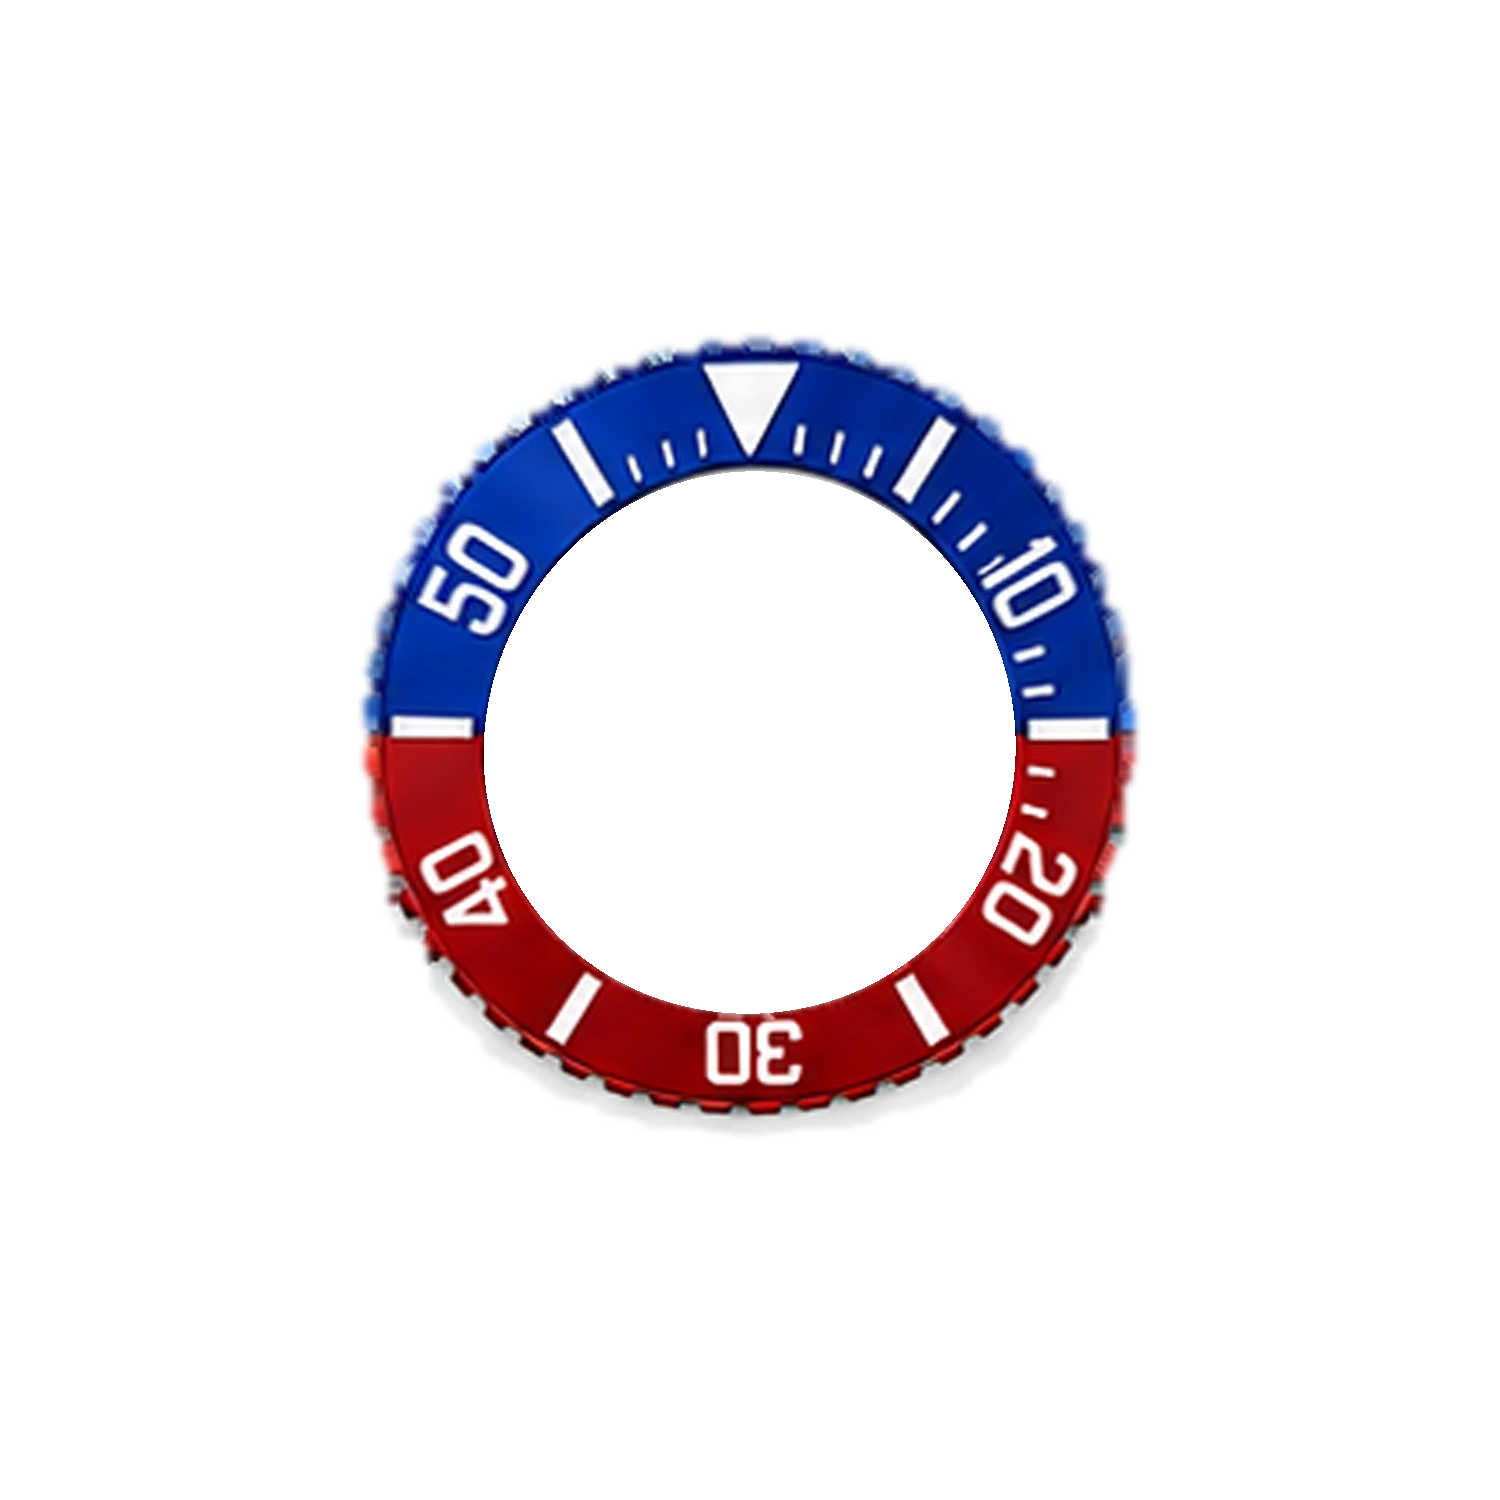
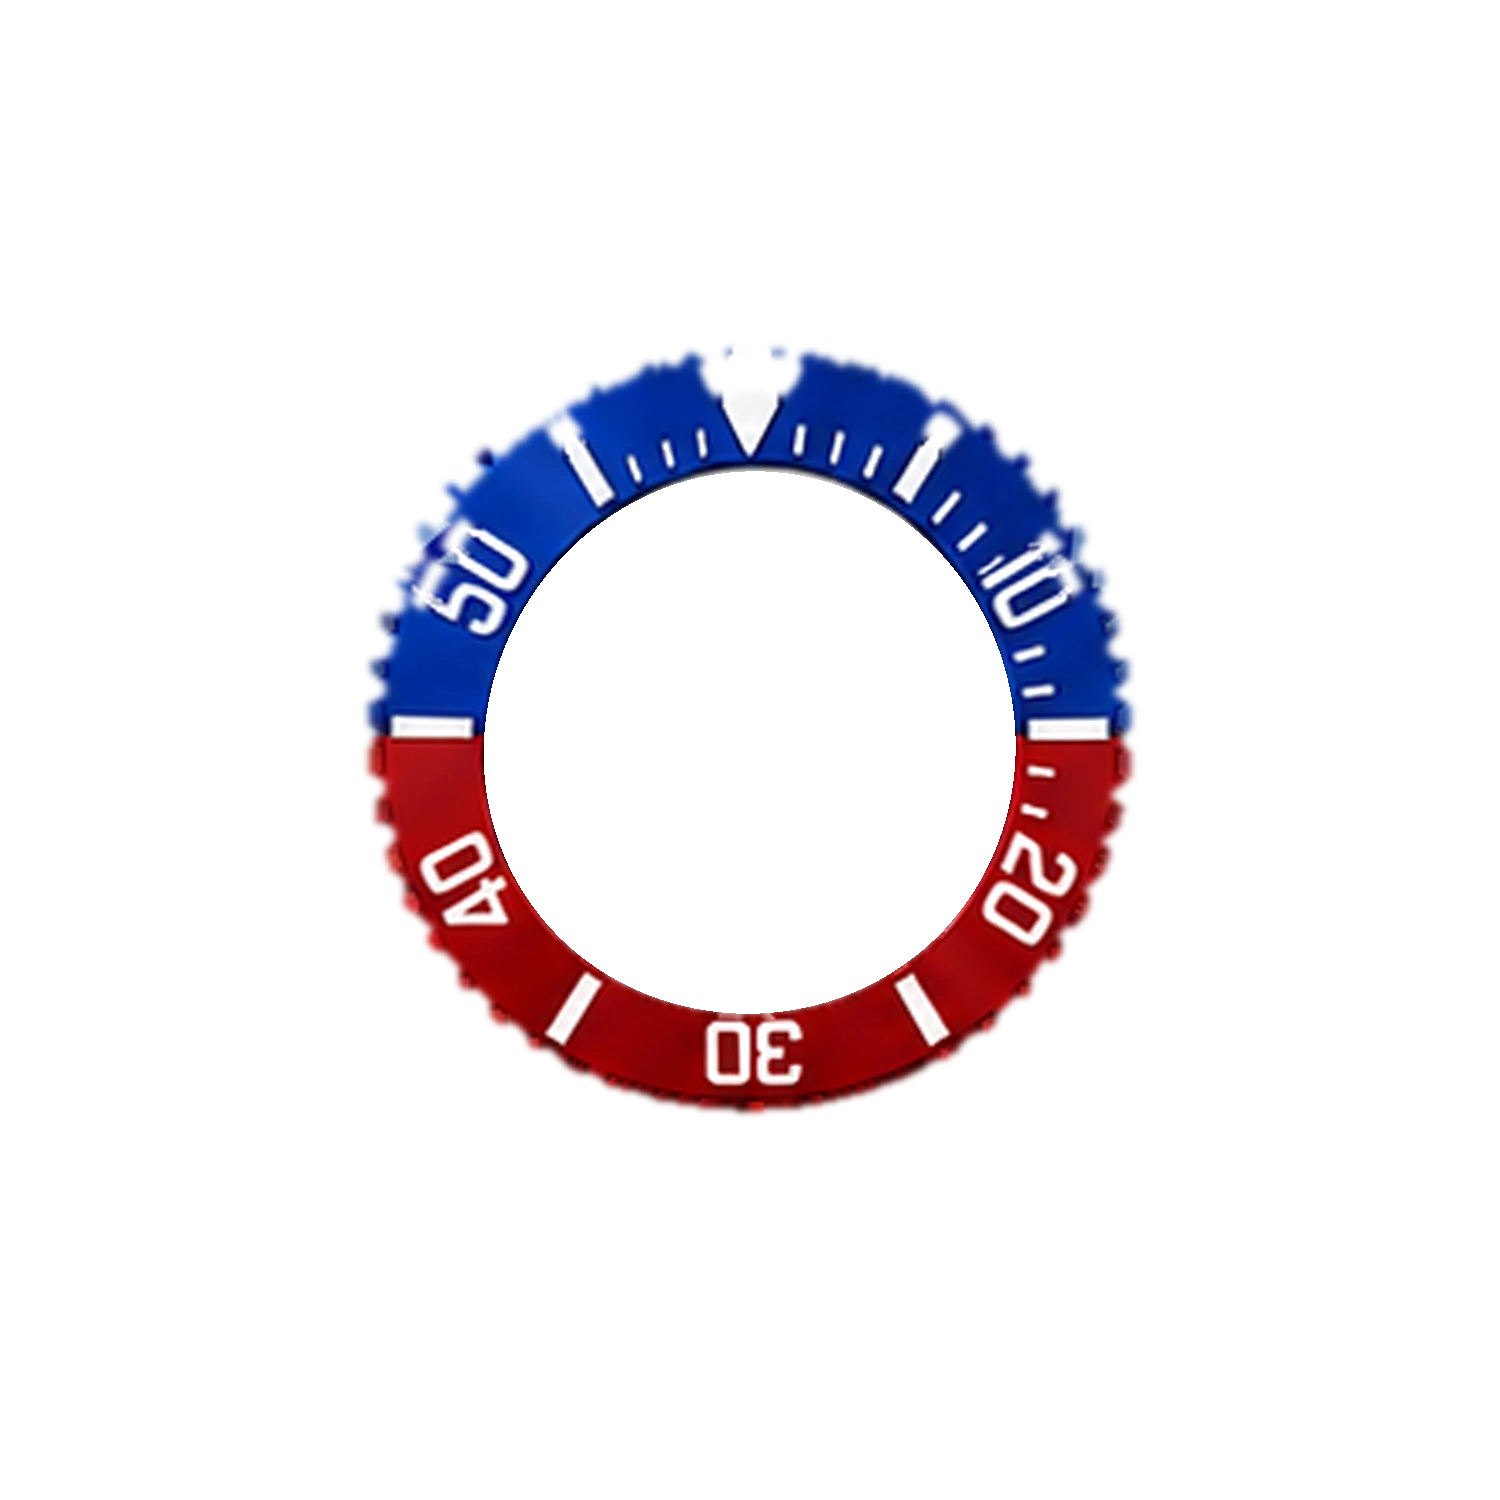
Builder: fingerprint every picture URL (server caches images 30 days, immutable) so updated pictures always load; Saturation bezels: remove drop-shadow fringe

diff --git a/scripts/build-gallery.js b/scripts/build-gallery.js
@@ -57,6 +57,8 @@ function walk(dir) {
   const BUILDS = path.join(ROOT, 'images', 'builds');
   const regPath = path.join(BUILDS, 'registry.json'), famPath = path.join(BUILDS, 'families.json');
   if (!fs.existsSync(regPath) || !fs.existsSync(famPath)) return;
+  const crypto = require('crypto');
+  const vq = rel => { try { return '?v=' + crypto.createHash('md5').update(fs.readFileSync(path.join(ROOT, rel))).digest('hex').slice(0, 10); } catch (e) { return ''; } };   // changes only when the picture changes
   const GEN = path.join(BUILDS, '_generated');
   fs.rmSync(GEN, { recursive: true, force: true });
   const registry = JSON.parse(fs.readFileSync(regPath, 'utf8'));
@@ -79,7 +81,7 @@ function walk(dir) {
       const dir = path.join(GEN, p.cat); fs.mkdirSync(dir, { recursive: true });
       let img = sharp(src); if (CROPS[p.cat]) img = img.extract(CROPS[p.cat]);
       await img.resize({ width: 220 }).webp({ quality: 85, alphaQuality: 100 }).toFile(path.join(dir, p.id + '.thumb.webp'));
-      made[p.cat + '/' + p.id] = `images/builds/_generated/${p.cat}/${p.id}.thumb.webp`; count++;
+      { const rel = `images/builds/_generated/${p.cat}/${p.id}.thumb.webp`; made[p.cat + '/' + p.id] = rel + vq(rel); } count++;
     } catch (e) { console.warn('Part skipped:', p.id, e.message); made[p.cat + '/' + p.id] = null; }
   }
   const out = { families: {}, pending: {} };
@@ -89,10 +91,10 @@ function walk(dir) {
       // dials are matched by SIZE (a case only takes dials of its dial size); everything else by the family list
       cats[cat] = registry.parts.filter(p => p.cat === cat && (cat === 'dials' && fam.dialSize ? p.size_mm === fam.dialSize : (p.families || []).includes(fid)) && made[p.cat + '/' + p.id]).map(p => {
         const useVariant = fam.variant && (p.variants || []).includes(fam.variant);
-        const item = { id: p.id, label: p.label, thumb: made[p.cat + '/' + p.id],
-                 src: `images/builds/parts/${p.cat}/${p.id}${useVariant ? '@' + fam.variant : ''}.webp`, lowres: !!p.lowres };
+        const srcRel = `images/builds/parts/${p.cat}/${p.id}${useVariant ? '@' + fam.variant : ''}.webp`;
+        const item = { id: p.id, label: p.label, thumb: made[p.cat + '/' + p.id], src: srcRel + vq(srcRel), lowres: !!p.lowres };
         // bezel: a version with the steel frame recoloured to gold, shown with gold / two-tone cases
-        if (p.cat === 'bezels' && (p.variants || []).includes('g')) item.srcGold = `images/builds/parts/${p.cat}/${p.id}@g.webp`;
+        if (p.cat === 'bezels' && (p.variants || []).includes('g')) { const r = `images/builds/parts/${p.cat}/${p.id}@g.webp`; item.srcGold = r + vq(r); }
         if (p.goldFrame) item.goldFrame = true;
         if (p.size_mm) item.size_mm = p.size_mm;
         // hands whose pictures depend on the dial (chronograph: sub-dial hands sit on that dial's own sub-dials)
@@ -100,7 +102,7 @@ function walk(dir) {
           item.srcByDial = {};
           for (const d of (cats.dials || [])) {
             const f = `images/builds/parts/${p.cat}/${p.id}@${d.id}.webp`;
-            if (fs.existsSync(path.join(ROOT, f))) item.srcByDial[d.id] = f;
+            if (fs.existsSync(path.join(ROOT, f))) item.srcByDial[d.id] = f + vq(f);
           }
         }
         return item;
